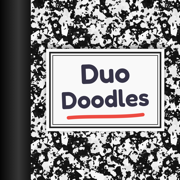
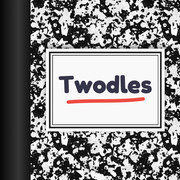
Rename the app to Twodles and bump the build to 4
App Review rejected "Duo Doodles" because Duo is an Apple product name.
The home-screen name, home title, notebook cover, share preview, app
icon label, listing copy, and website now say Twodles. The bundle ID,
SKU, Xcode target, and duodoodles.fun domain stay the same.

The new screenshot sources are simulator captures from this build: the
Duo outer cover and the iPhone home and hand-off screens. The Duo inner
home capture has its title re-lettered, because the headless Duo
simulator only runs folded. Every frame was re-rendered.

This also includes the uncommitted marketing work from the 1.0 (3)
submission: the iOS 27 header and search results art, the hand-off
frame replacing the fold frame, and the answers to App Review's
questions in AppStore.md.

Changed region(s): [[0.1667, 0.0, 1.0, 1.0]]

diff --git a/index.html b/index.html
@@ -3,11 +3,11 @@
 <head>
   <meta charset="utf-8">
   <meta name="viewport" content="width=device-width, initial-scale=1">
-  <title>Duo Doodles — Fold & Pass Drawing Game</title>
+  <title>Twodles — Fold & Pass Drawing Game</title>
   <meta name="description" content="A two-player drawing game made for iPhone Duo. Draw your secret half, fold the phone to pass it, then open it slowly for the big reveal.">
   <!-- Smart App Banner in Safari. Replace the ID once the app exists in App Store Connect. -->
   <meta name="apple-itunes-app" content="app-id=6818603832">
-  <meta property="og:title" content="Duo Doodles">
+  <meta property="og:title" content="Twodles">
   <meta property="og:description" content="Two artists are better than one. A drawing game made for iPhone Duo.">
   <meta property="og:url" content="https://duodoodles.fun/">
   <meta property="og:image" content="https://duodoodles.fun/assets/icon.png">
@@ -18,9 +18,9 @@
 <body>
   <main>
     <section class="hero">
-      <img class="hero-icon" src="assets/icon.png" alt="Duo Doodles app icon: a composition notebook">
+      <img class="hero-icon" src="assets/icon.png" alt="Twodles app icon: a composition notebook">
       <div class="hero-text">
-        <h1>Duo Doodles</h1>
+        <h1>Twodles</h1>
         <svg class="swoosh" viewBox="0 0 320 18" aria-hidden="true">
           <path d="M4 13 C 90 6, 200 12, 316 4" fill="none" stroke="#e63333" stroke-width="9" stroke-linecap="round"/>
         </svg>
@@ -58,7 +58,7 @@
       <a href="support/">Support</a>
       <a href="privacy/">Privacy Policy</a>
     </nav>
-    <small>© 2026 Duo Doodles. Apple, the Apple logo, and iPhone are trademarks of Apple Inc., registered in the U.S. and other countries. App Store is a service mark of Apple Inc.</small>
+    <small>© 2026 Twodles. Apple, the Apple logo, and iPhone are trademarks of Apple Inc., registered in the U.S. and other countries. App Store is a service mark of Apple Inc.</small>
   </footer>
 </body>
 </html>

diff --git a/support/index.html b/support/index.html
@@ -3,13 +3,13 @@
 <head>
   <meta charset="utf-8">
   <meta name="viewport" content="width=device-width, initial-scale=1">
-  <title>Support — Duo Doodles</title>
+  <title>Support — Twodles</title>
   <link rel="icon" href="../assets/favicon.png">
   <link rel="stylesheet" href="../assets/style.css">
 </head>
 <body>
   <main class="page">
-    <a class="back" href="../">← Duo Doodles</a>
+    <a class="back" href="../">← Twodles</a>
     <h1>Support</h1>
     <p>
       Need a hand? Email <a href="mailto:support@duodoodles.fun">support@duodoodles.fun</a>
@@ -19,7 +19,7 @@
     <div class="faq">
       <h3>Do I need an iPhone Duo?</h3>
       <p>
-        No. Duo Doodles is made for iPhone Duo, where folding the phone passes it along, but it
+        No. Twodles is made for iPhone Duo, where folding the phone passes it along, but it
         plays on any iPhone running iOS 26 or later. On other iPhones, tap Done when you
         finish drawing, then pass the phone and tap to reveal.
       </p>

diff --git a/privacy/index.html b/privacy/index.html
@@ -3,18 +3,18 @@
 <head>
   <meta charset="utf-8">
   <meta name="viewport" content="width=device-width, initial-scale=1">
-  <title>Privacy Policy — Duo Doodles</title>
+  <title>Privacy Policy — Twodles</title>
   <link rel="icon" href="../assets/favicon.png">
   <link rel="stylesheet" href="../assets/style.css">
 </head>
 <body>
   <main class="page">
-    <a class="back" href="../">← Duo Doodles</a>
+    <a class="back" href="../">← Twodles</a>
     <h1>Privacy Policy</h1>
     <p><em>Last updated: October 12, 2026</em></p>
 
     <p>
-      Duo Doodles does not collect, store, or share any personal information.
+      Twodles does not collect, store, or share any personal information.
     </p>
     <p>
       Drawings you make stay on your device. They're only shared or saved if you choose to,

diff --git a/download/index.html b/download/index.html
@@ -3,7 +3,7 @@
 <head>
   <meta charset="utf-8">
   <meta name="viewport" content="width=device-width, initial-scale=1">
-  <title>Download Duo Doodles</title>
+  <title>Download Twodles</title>
   <!-- A short link for posts and videos (yoursite/download) that goes straight to the App Store. -->
   <meta http-equiv="refresh" content="0; url=https://apps.apple.com/app/id6818603832">
   <link rel="canonical" href="https://apps.apple.com/app/id6818603832">
@@ -12,7 +12,7 @@
 </head>
 <body>
   <main class="page">
-    <h1>Duo Doodles</h1>
+    <h1>Twodles</h1>
     <p>Taking you to the App Store… <a href="https://apps.apple.com/app/id6818603832">Tap here</a> if nothing happens.</p>
   </main>
 </body>

diff --git a/assets/style.css b/assets/style.css
@@ -1,4 +1,4 @@
-/* Duo Doodles — notebook-paper styling to match the app. */
+/* Twodles — notebook-paper styling to match the app. */
 
 @font-face {
   font-family: "Fredoka";

diff --git a/README.md b/README.md
@@ -1,4 +1,4 @@
-# Duo Doodles website
+# Twodles website
 
 A static site for GitHub Pages: the landing page, `/download` (a short link to the App
 Store), `/privacy`, and `/support`.
